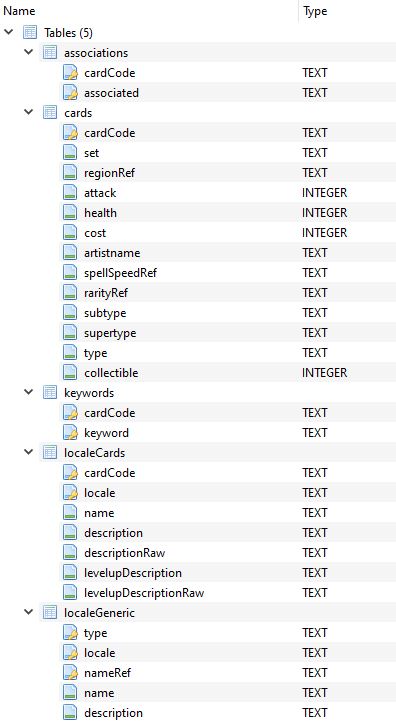
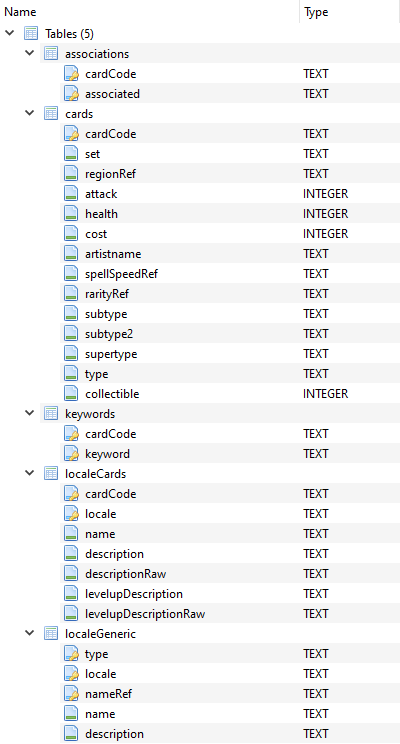
multiple subtypes and types locale

Changed region(s): [[0.0, 0.0, 0.5152, 1.0], [0.7576, 0.0914, 0.8788, 1.0], [0.7273, 0.0, 0.8182, 0.0305]]

diff --git a/lordbb/utils.go b/lordbb/utils.go
@@ -87,7 +87,7 @@ func process(version string, locales []string) {
 			log.Println("Unziping " + filepath + ".zip")
 			unzip("downloads/"+filepath+".zip", strings.ReplaceAll("downloads/"+filepath, "-lite", ""))
 			log.Println("Parsing and inserting " + jsonpath)
-			parseAndInsert(jsonpath, set, locale, sqlDb)
+			parseAndInsert(jsonpath, locale, sqlDb)
 		}
 	}
 }
@@ -196,7 +196,7 @@ func createTables(db *sql.DB, dbQ []string) {
 }
 
 //given a JSON file, a set, a locale and a databse parse the info and insert it
-func parseAndInsert(file string, set int, locale string, db *sql.DB) {
+func parseAndInsert(file string, locale string, db *sql.DB) {
 	jsonStream, err := os.Open(file)
 	if err != nil {
 		log.Fatal(err)
@@ -216,7 +216,9 @@ func parseAndInsert(file string, set int, locale string, db *sql.DB) {
 			if err != nil {
 				log.Fatal(err)
 			}
-			c.Set = "set" + strconv.Itoa(set) //Set has the be inserted manually because the json doesn't provide the info
+			if len(c.Subtypes) > 1 { //very few cards have two subtypes so for those that do
+				c.Subtype2 = c.Subtypes[1]
+			}
 			s, _ := json.MarshalIndent(c, "", "\t")
 			log.Println(string(s))
 			insertCard(c, locale, db) // insert on the database
@@ -243,12 +245,37 @@ func parseAndInsert(file string, set int, locale string, db *sql.DB) {
 //set of queries to perform for each card
 func insertCard(c Card, locale string, db *sql.DB) {
 	if locale == "en_us" { //the base stats are only inserted with "en_us" locale
+		if c.Type != "" {
+			_, okType := TypeLocale[c.Type]
+			if !okType {
+				TypeLocale[c.Type] = c.CardCode
+			}
+		}
+		if c.Subtype != "" {
+			_, okType := SubtypeLocale[c.Subtype]
+			if !okType {
+				SubtypeLocale[c.Subtype] = c.CardCode
+			}
+		}
+		if c.Subtype2 != "" {
+			_, okType := Subtype2Locale[c.Subtype2]
+			if !okType {
+				Subtype2Locale[c.Subtype2] = c.CardCode
+			}
+		}
+		if c.Supertype != "" {
+			_, okType := SupertypeLocale[c.Supertype]
+			if !okType {
+				SupertypeLocale[c.Supertype] = c.CardCode
+			}
+		}
+
 		statement, err := db.Prepare(InsertCardSQLQ)
 		if err != nil {
 			log.Fatalln(err.Error())
 		}
 		//cards table
-		_, err = statement.Exec(c.CardCode, nullS(c.Set), nullS(c.RegionRef), c.Attack, c.Health, c.Cost, nullS(c.ArtistName), nullS(c.SpellSpeedRef), nullS(c.RarityRef), nullS(c.Subtype), nullS(c.Supertype), nullS(c.Type), c.Collectible)
+		_, err = statement.Exec(c.CardCode, nullS(c.Set), nullS(c.RegionRef), c.Attack, c.Health, c.Cost, nullS(c.ArtistName), nullS(c.SpellSpeedRef), nullS(c.RarityRef), nullS(c.Subtype), nullS(c.Subtype2), nullS(c.Supertype), nullS(c.Type), c.Collectible)
 		if err != nil {
 			log.Fatalln(err.Error())
 		}
@@ -288,6 +315,52 @@ func insertCard(c Card, locale string, db *sql.DB) {
 		log.Fatalln(err.Error())
 	}
 
+	if existsValue(TypeLocale, c.CardCode) {
+		statement, err := db.Prepare(InsertLocaleGenericSQLQ)
+		if err != nil {
+			log.Fatalln(err.Error())
+		}
+		_, err = statement.Exec("type", locale, getKey(TypeLocale, c.CardCode), c.Type, sql.NullString{})
+		if err != nil {
+			log.Fatalln(err.Error())
+		}
+	}
+
+	if existsValue(SupertypeLocale, c.CardCode) {
+		statement, err := db.Prepare(InsertLocaleGenericSQLQ)
+		if err != nil {
+			log.Fatalln(err.Error())
+		}
+		_, err = statement.Exec("supertype", locale, getKey(SupertypeLocale, c.CardCode), c.Supertype, sql.NullString{})
+		if err != nil {
+			log.Fatalln(err.Error())
+		}
+	}
+
+	if existsValue(SubtypeLocale, c.CardCode) {
+		statement, err := db.Prepare(InsertLocaleGenericSQLQ)
+		if err != nil {
+			log.Fatalln(err.Error())
+		}
+		_, err = statement.Exec("subtype", locale, getKey(SubtypeLocale, c.CardCode), c.Subtype, sql.NullString{})
+		if err != nil {
+			log.Fatalln(err.Error())
+		}
+	}
+
+	if existsValue(Subtype2Locale, c.CardCode) {
+		_, ok := SubtypeLocale[getKey(Subtype2Locale, c.CardCode)]
+		if !ok {
+			statement, err := db.Prepare(InsertLocaleGenericSQLQ)
+			if err != nil {
+				log.Fatalln(err.Error())
+			}
+			_, err = statement.Exec("subtype", locale, getKey(Subtype2Locale, c.CardCode), c.Subtype2, sql.NullString{})
+			if err != nil {
+				log.Fatalln(err.Error())
+			}
+		}
+	}
 }
 
 //set of queries to perform for each core
@@ -359,4 +432,23 @@ func nullS(s string) sql.NullString {
 		String: s,
 		Valid:  true,
 	}
+}
+
+//reverse search in a map
+func existsValue(m map[string]string, value string) bool {
+	for _, val := range m {
+		if val == value {
+			return true
+		}
+	}
+	return false
+}
+
+func getKey(m map[string]string, value string) string {
+	for key, val := range m {
+		if val == value {
+			return key
+		}
+	}
+	return ""
 }

diff --git a/lordbb/param.go b/lordbb/param.go
@@ -13,6 +13,7 @@ var SQLTableCreation = []string{
 			"spellSpeedRef" TEXT,
 			"rarityRef" TEXT,
 			"subtype" TEXT,
+			"subtype2" TEXT,
 			"supertype" TEXT,
 			"type" TEXT,
 			"collectible" INTEGER		
@@ -58,10 +59,11 @@ var InsertCardSQLQ = `INSERT INTO cards(
 		spellSpeedRef,
 		rarityRef,
 		subtype,
+		subtype2,
 		supertype,
 		type,
 		collectible 
-	) VALUES ( ?, ?, ?, ?, ?, ?, ?, ?, ?, ?, ?, ?, ?)`
+	) VALUES ( ?, ?, ?, ?, ?, ?, ?, ?, ?, ?, ?, ?, ?, ?)`
 
 //InsertKeywordsSQLQ insert into keywords
 var InsertKeywordsSQLQ = `INSERT INTO keywords(
@@ -114,11 +116,6 @@ var Locales = []string{
 	"ru_ru",
 	"zh_tw"}
 
-//JsonsList List of files
-var JsonsList = []string{
-	"globals",
-	"set"}
-
 //SAssets Json struct for the Assets path (included in the Card struct)
 type SAssets struct {
 	GameAbsolutePath, FullAbsolutePath string
@@ -128,7 +125,7 @@ type SAssets struct {
 type Card struct {
 	Assets []SAssets
 	AssociatedCards, AssociatedCardRefs,
-	Keywords, KeywordRefs []string
+	Keywords, KeywordRefs, Subtypes []string
 	Set, Region, RegionRef,
 	Description, DescriptionRaw,
 	LevelupDescription, LevelupDescriptionRaw,
@@ -138,7 +135,7 @@ type Card struct {
 	CardCode,
 	SpellSpeed, SpellSpeedRef,
 	Rarity, RarityRef,
-	Subtype, Type, Supertype string
+	Subtype, Subtype2, Type, Supertype string
 	Attack, Cost, Health int
 	Collectible          bool
 }
@@ -164,3 +161,15 @@ type Global struct {
 	Regions               []GlobalRegion
 	SpellSpeeds, Rarities []GlobalDescr2
 }
+
+//TypeLocale stores cardcode references to make possible a translated type
+var TypeLocale map[string]string = make(map[string]string)
+
+//SubtypeLocale stores cardcode references to make possible a translated type
+var SubtypeLocale map[string]string = make(map[string]string)
+
+//Subtype2Locale stores cardcode references to make possible a translated type
+var Subtype2Locale map[string]string = make(map[string]string)
+
+//SupertypeLocale stores cardcode references to make possible a translated type
+var SupertypeLocale map[string]string = make(map[string]string)
